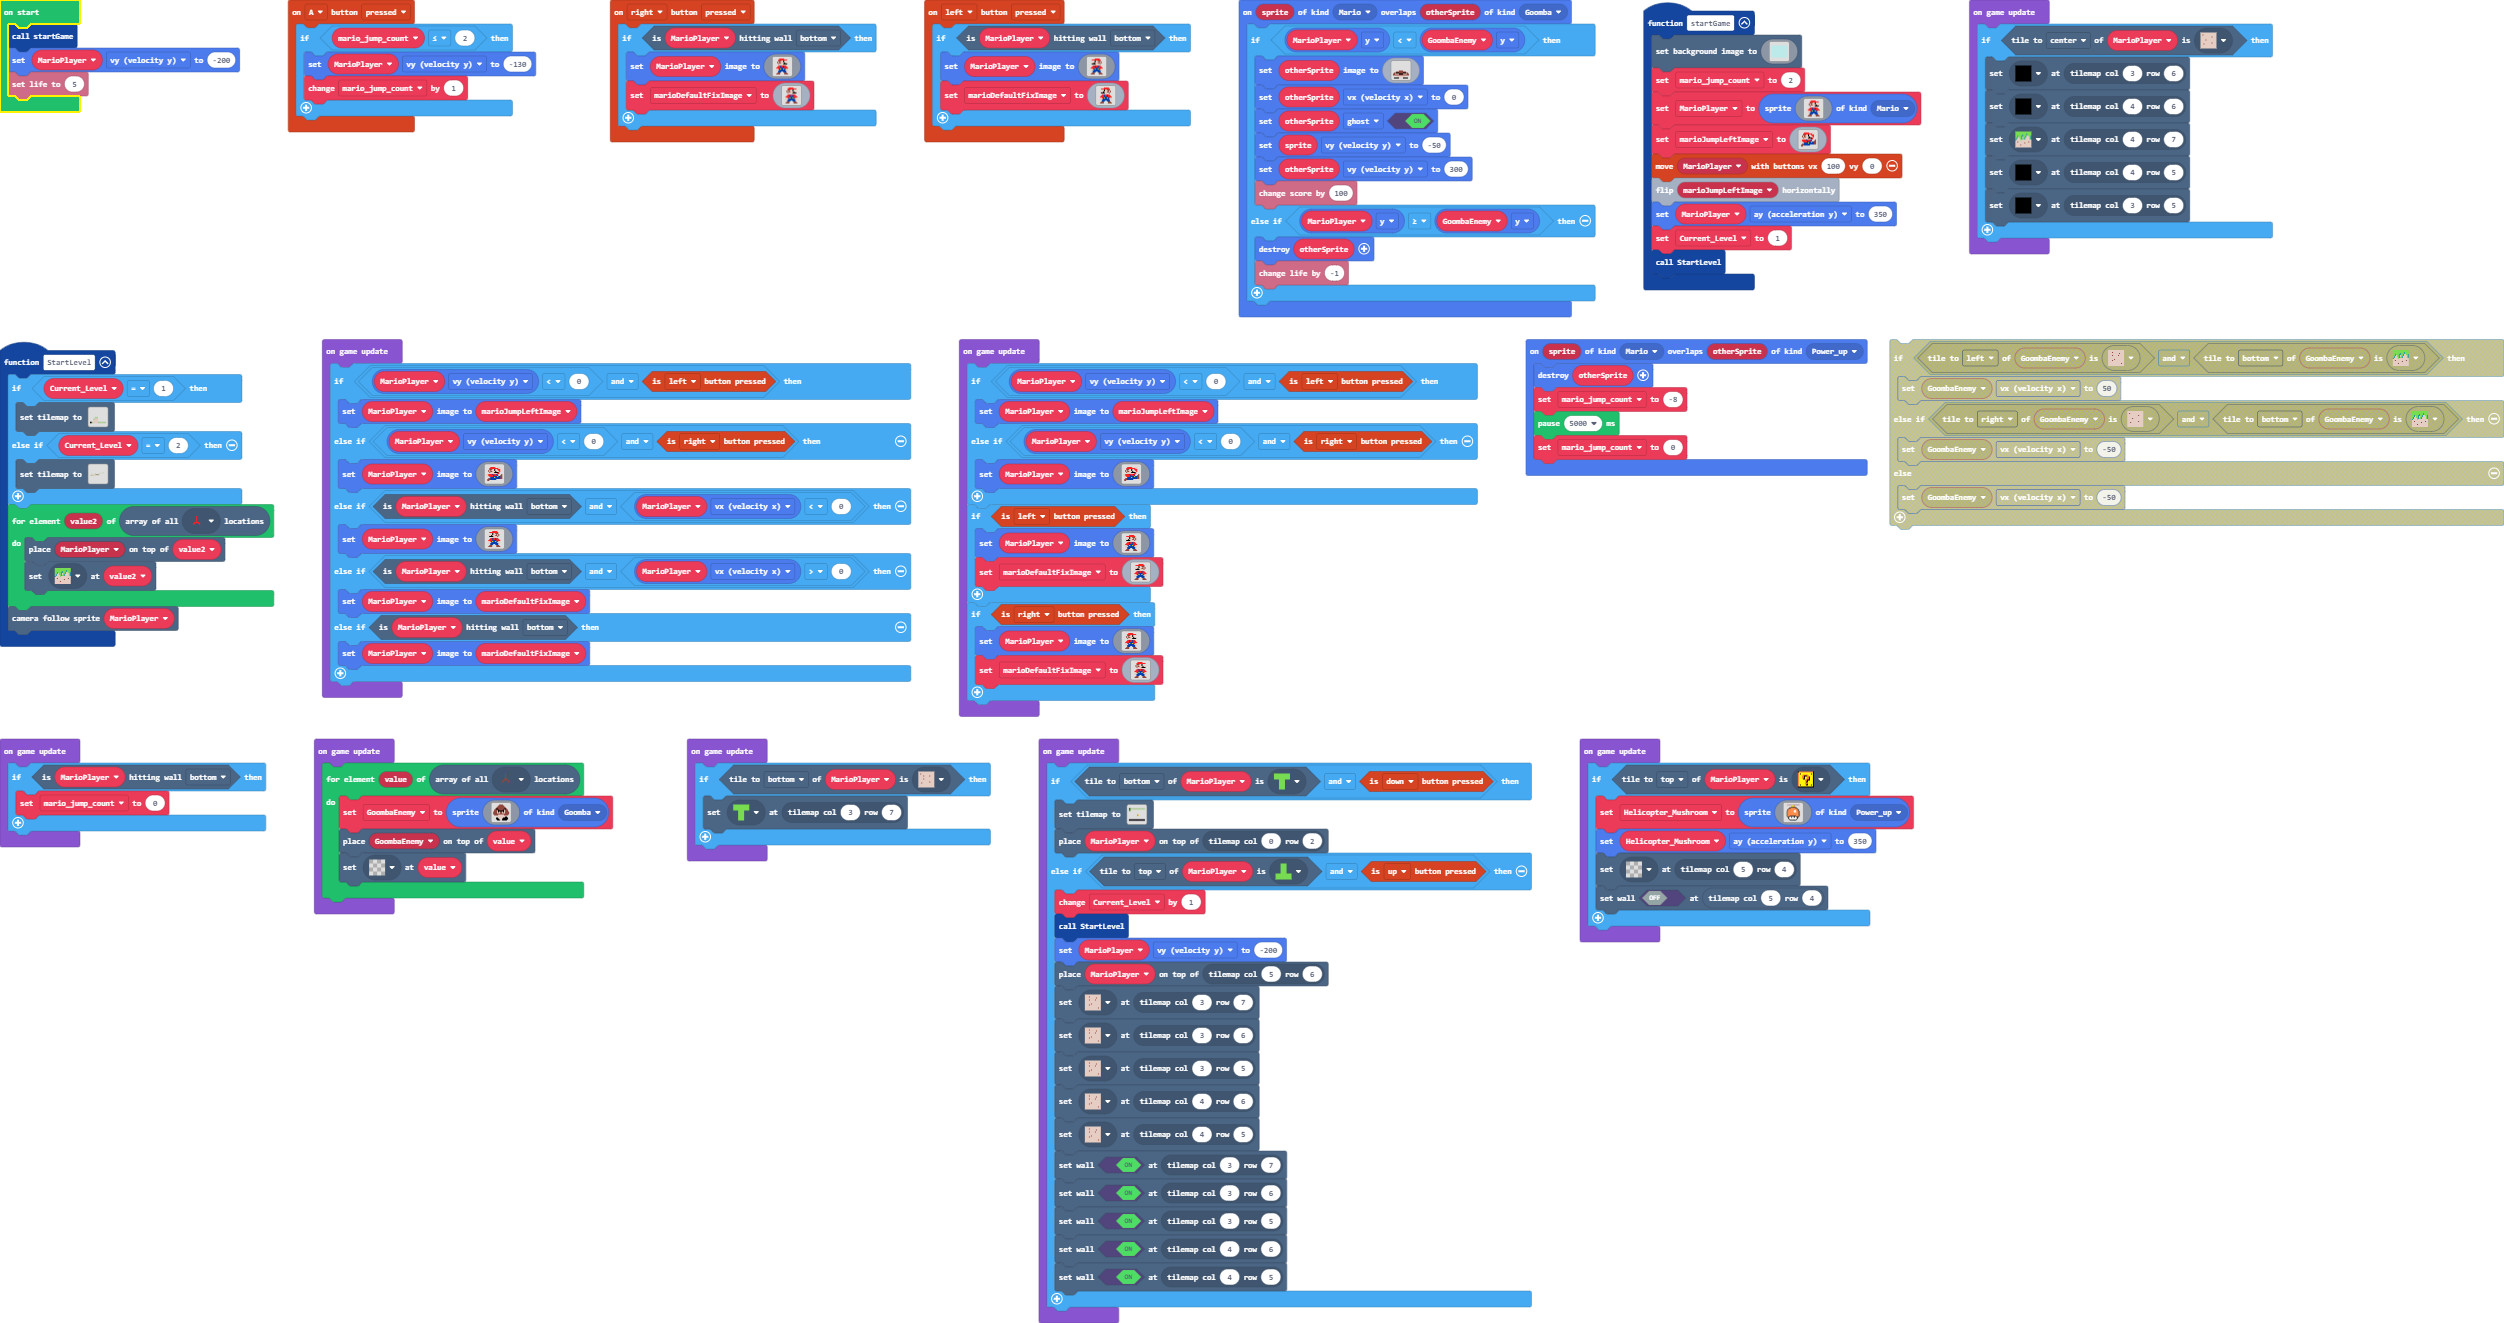
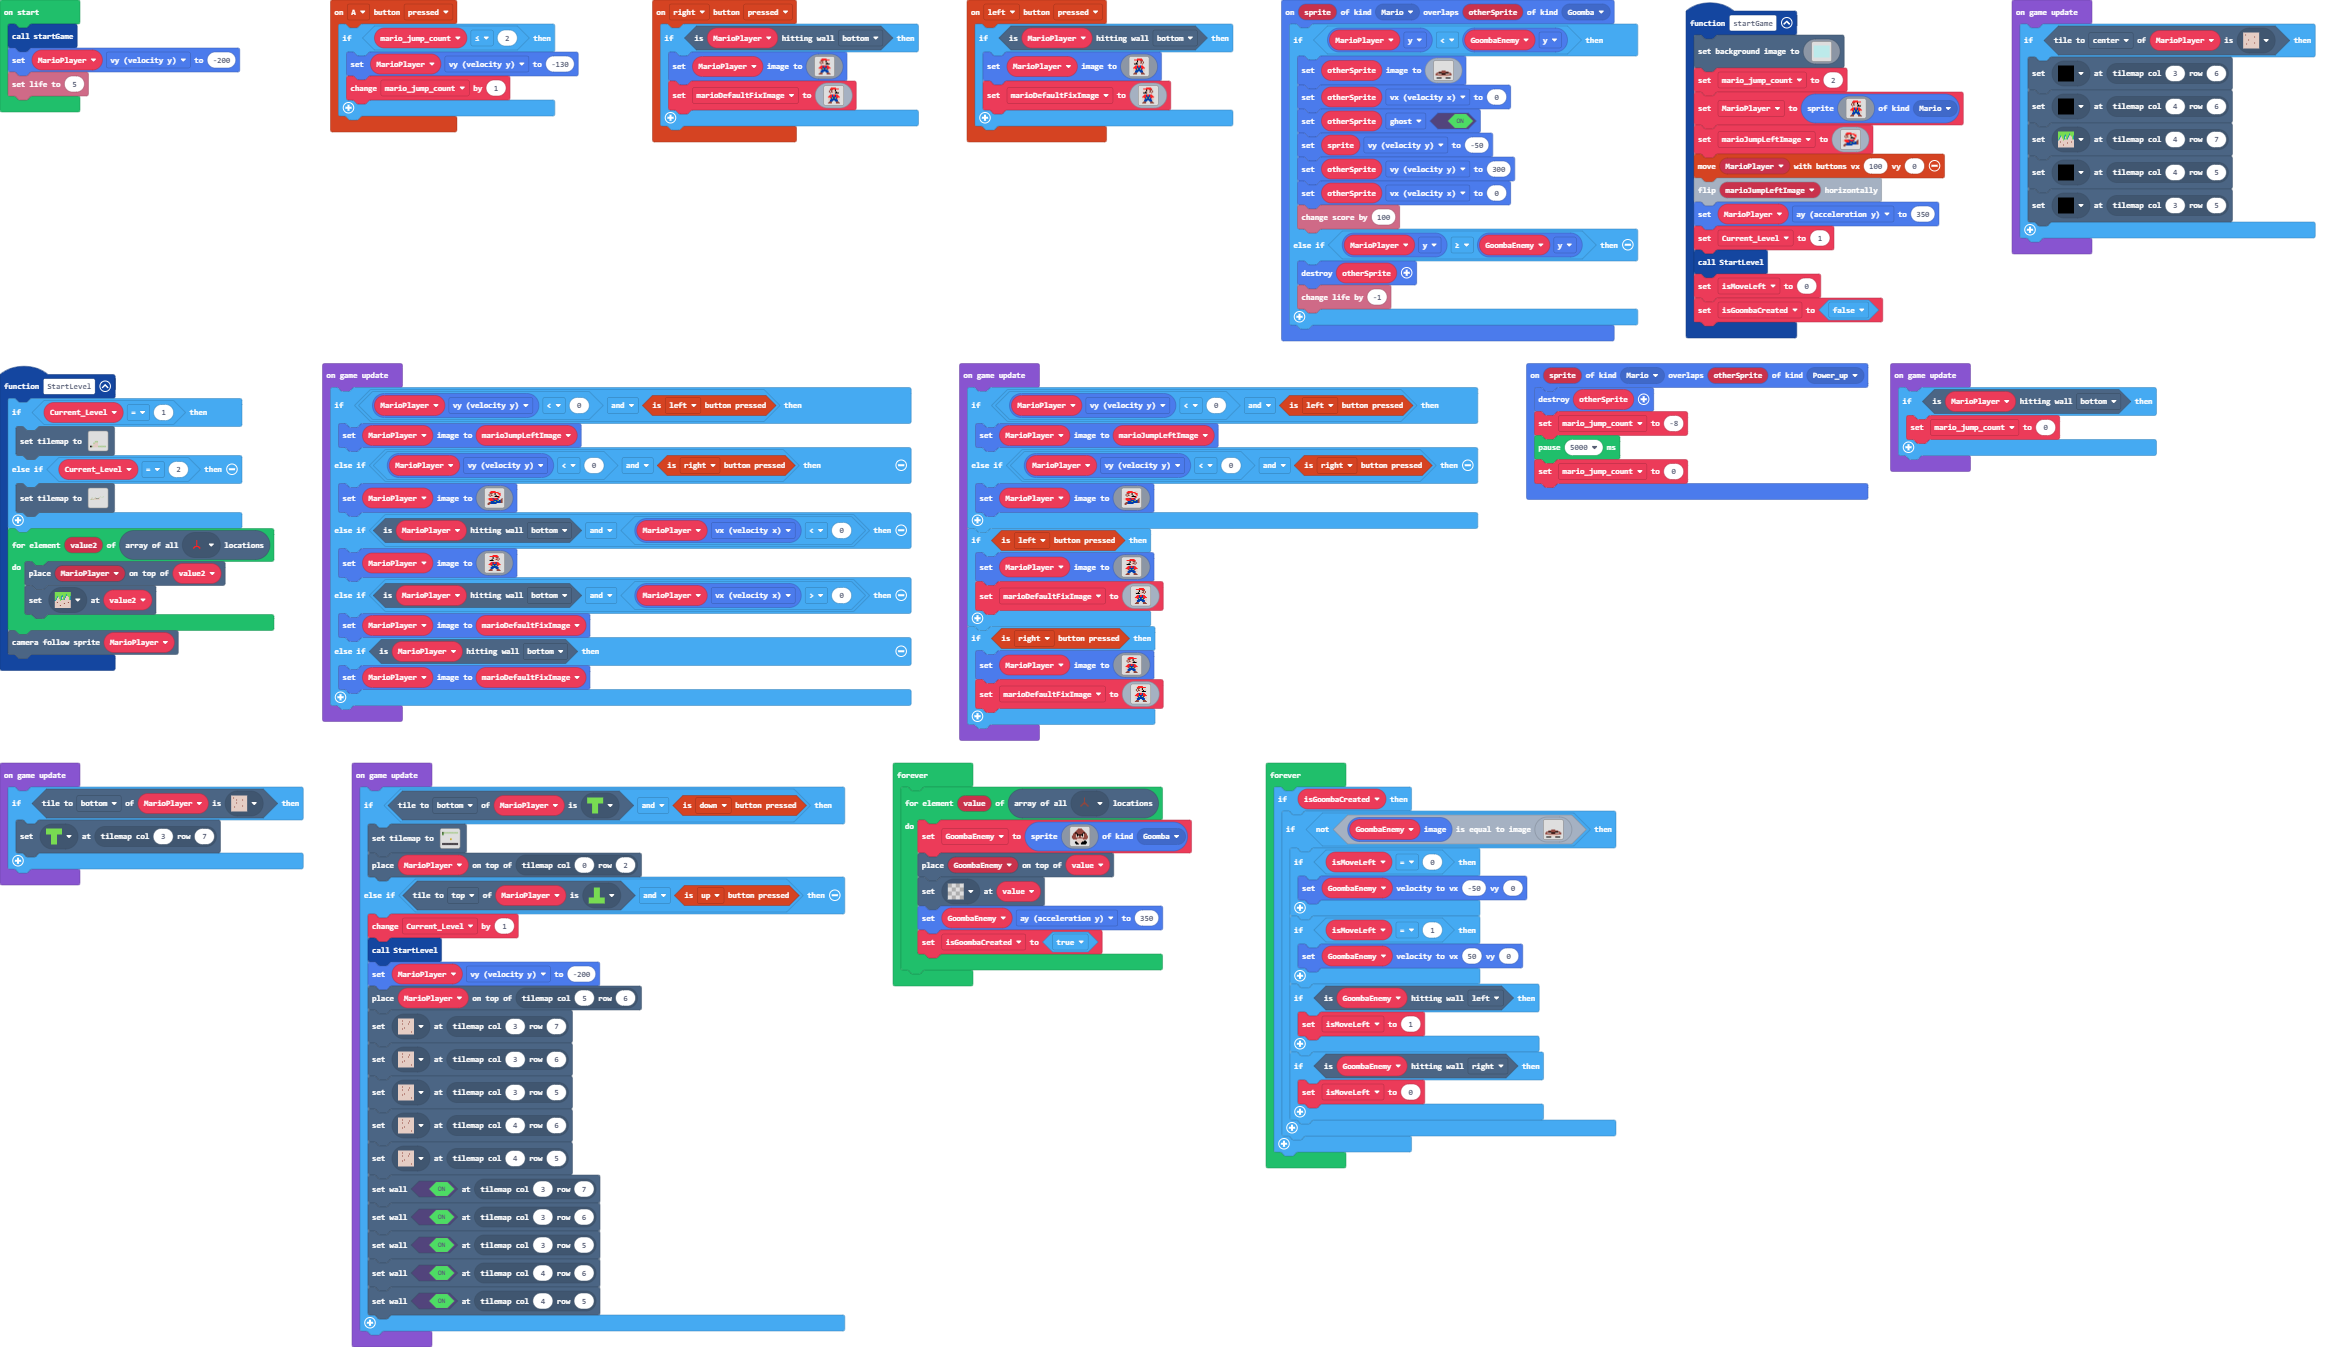
Update pxt.json, main.blocks, main.ts

diff --git a/main.ts b/main.ts
@@ -202,6 +202,8 @@ function startGame () {
     MarioPlayer.ay = 350
     Current_Level = 1
     StartLevel()
+    isMoveLeft = 0
+    isGoombaCreated = false
 }
 controller.left.onEvent(ControllerButtonEvent.Pressed, function () {
     if (MarioPlayer.isHittingTile(CollisionDirection.Bottom)) {
@@ -307,6 +309,7 @@ sprites.onOverlap(SpriteKind.Mario, SpriteKind.Goomba, function (sprite, otherSp
         otherSprite.setFlag(SpriteFlag.Ghost, true)
         sprite.vy = -50
         otherSprite.vy = 300
+        otherSprite.vx = 0
         info.changeScoreBy(100)
     } else if (MarioPlayer.y >= GoombaEnemy.y) {
         otherSprite.destroy()
@@ -319,9 +322,10 @@ sprites.onOverlap(SpriteKind.Mario, SpriteKind.Power_up, function (sprite, other
     pause(5000)
     mario_jump_count = 0
 })
-let Helicopter_Mushroom: Sprite = null
 let GoombaEnemy: Sprite = null
 let marioDefaultFixImage: Image = null
+let isGoombaCreated = false
+let isMoveLeft = 0
 let marioJumpLeftImage: Image = null
 let mario_jump_count = 0
 let Current_Level = 0
@@ -487,30 +491,6 @@ game.onUpdate(function () {
     }
 })
 game.onUpdate(function () {
-    for (let value of tiles.getTilesByType(myTiles.tile2)) {
-        GoombaEnemy = sprites.create(img`
-            . . . . . . e e e e . . . . . . 
-            . . . . . e e e e e e . . . . . 
-            . . . . e e e e e e e e . . . . 
-            . . . e e e e e e e e e e . . . 
-            . . e f f e e e e e e f f e . . 
-            . e e e e f e e e e f d e e e . 
-            . e e e d f f f f f f d e e e . 
-            e e e e d f d e e d f d e e e e 
-            e e e e d d d e e d d d e e e e 
-            e e e e e e e e e e e e e e e e 
-            . e e e e d d d d d d e e e e . 
-            . . . . d d d d d d d d . . . . 
-            . . . . d d d d d d d d f f . . 
-            . . . f f d d d d d f f f f f . 
-            . . . f f f d d d f f f f f f . 
-            . . . . f f f d . f f f f f . . 
-            `, SpriteKind.Goomba)
-        tiles.placeOnTile(GoombaEnemy, value)
-        tiles.setTileAt(value, myTiles.transparency16)
-    }
-})
-game.onUpdate(function () {
     if (MarioPlayer.tileKindAt(TileDirection.Bottom, myTiles.tile12)) {
         tiles.setTileAt(tiles.getTileLocation(3, 7), myTiles.tile8)
     }
@@ -545,32 +525,64 @@ game.onUpdate(function () {
         tiles.setWallAt(tiles.getTileLocation(4, 5), true)
     }
 })
-game.onUpdate(function () {
-    if (MarioPlayer.tileKindAt(TileDirection.Top, myTiles.tile9)) {
-        Helicopter_Mushroom = sprites.create(img`
-            b b b b b b b b b b b b b b b b 
-            d d d d d d d 5 5 4 . . . . . . 
-            . . . . . . . 5 5 4 . . . . . . 
-            . . . . . f f f f f f . . . . . 
-            . . . f f 4 4 4 4 4 4 f f . . . 
-            . . f 4 4 4 4 4 4 4 4 4 4 f . . 
-            . f 4 4 4 4 4 4 4 4 4 4 4 4 f . 
-            . f 4 4 4 4 4 4 4 1 1 1 4 4 f . 
-            f 4 4 4 4 4 4 4 4 1 1 1 4 4 4 f 
-            f 4 4 4 4 4 4 4 4 1 1 1 4 4 4 f 
-            f 4 4 4 4 4 4 4 4 4 4 4 4 4 4 f 
-            f 4 4 4 4 4 4 4 4 4 4 4 4 4 4 f 
-            f 4 4 4 4 4 4 4 4 4 4 4 4 4 4 f 
-            f 4 4 4 4 4 4 4 4 4 4 4 4 4 4 f 
-            f 4 4 4 f f f f f f f f 4 4 4 f 
-            . f f f 1 1 f 1 1 f 1 1 f f f . 
-            . . f 1 1 1 f 1 1 f 1 1 1 f . . 
-            . . f 1 1 1 1 1 1 1 1 1 1 f . . 
-            . . . f 1 1 1 1 1 1 1 1 f . . . 
-            . . . . f f f f f f f f . . . . 
-            `, SpriteKind.Power_up)
-        Helicopter_Mushroom.ay = 350
-        tiles.setTileAt(tiles.getTileLocation(5, 4), myTiles.tile0)
-        tiles.setWallAt(tiles.getTileLocation(5, 4), false)
+forever(function () {
+    for (let value of tiles.getTilesByType(myTiles.tile2)) {
+        GoombaEnemy = sprites.create(img`
+            . . . . . . e e e e . . . . . . 
+            . . . . . e e e e e e . . . . . 
+            . . . . e e e e e e e e . . . . 
+            . . . e e e e e e e e e e . . . 
+            . . e f f e e e e e e f f e . . 
+            . e e e e f e e e e f d e e e . 
+            . e e e d f f f f f f d e e e . 
+            e e e e d f d e e d f d e e e e 
+            e e e e d d d e e d d d e e e e 
+            e e e e e e e e e e e e e e e e 
+            . e e e e d d d d d d e e e e . 
+            . . . . d d d d d d d d . . . . 
+            . . . . d d d d d d d d f f . . 
+            . . . f f d d d d d f f f f f . 
+            . . . f f f d d d f f f f f f . 
+            . . . . f f f d . f f f f f . . 
+            `, SpriteKind.Goomba)
+        tiles.placeOnTile(GoombaEnemy, value)
+        tiles.setTileAt(value, myTiles.transparency16)
+        GoombaEnemy.ay = 350
+        isGoombaCreated = true
+    }
+})
+forever(function () {
+    if (isGoombaCreated) {
+        if (!(GoombaEnemy.image.equals(img`
+            . . . . . . . . . . . . . . . . 
+            . . . . . . . . . . . . . . . . 
+            . . . . . . . . . . . . . . . . 
+            . . . . . . . . . . . . . . . . 
+            . . . . . . . . . . . . . . . . 
+            . . . . . . . . . . . . . . . . 
+            . . . . . . . . . . . . . . . . 
+            . . . . . . . . . . . . . . . . 
+            . . . . . . e e e e . . . . . . 
+            . . . e e e e e e e e e e . . . 
+            . e e f f f e e e e f f f e e . 
+            e e d d d d f f f f d d d d e e 
+            e e e e e e e e e e e e e e e e 
+            . . . d d d d d d d d d d . . . 
+            . . . . d d d d d d d d . . . . 
+            . f f f f f . . . . f f f f f . 
+            `))) {
+            if (isMoveLeft == 0) {
+                GoombaEnemy.setVelocity(-50, 0)
+            }
+            if (isMoveLeft == 1) {
+                GoombaEnemy.setVelocity(50, 0)
+            }
+            if (GoombaEnemy.isHittingTile(CollisionDirection.Left)) {
+                isMoveLeft = 1
+            }
+            if (GoombaEnemy.isHittingTile(CollisionDirection.Right)) {
+                isMoveLeft = 0
+            }
+        }
     }
 })
